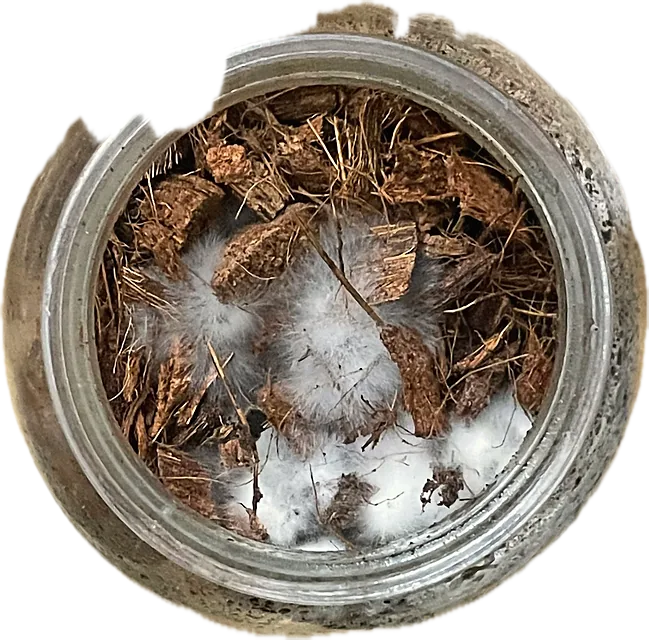
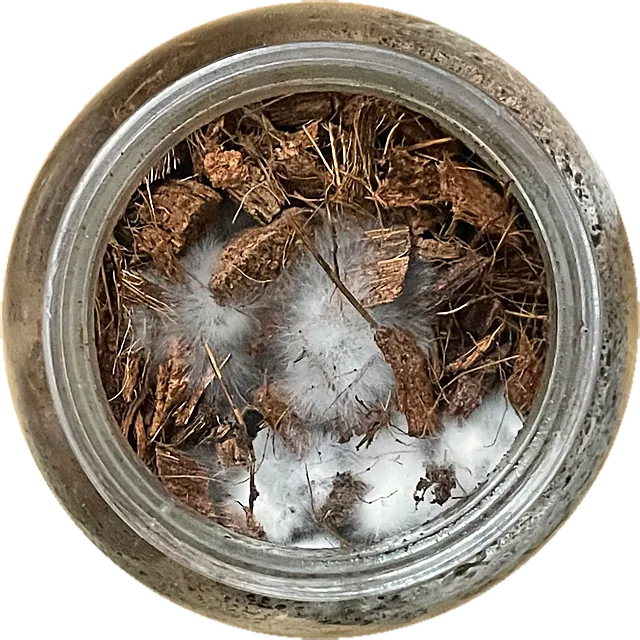
Update site 2026-10-16

diff --git a/index.html b/index.html
@@ -2,7 +2,7 @@
 <html lang="en">
 <head>
 <meta charset="utf-8">
-<meta http-equiv="Content-Security-Policy" content="default-src 'self'; script-src 'self' 'sha256-2aXUAyr4y5HwhHmZkiL9GxlWPjC31j/WITiZgkK8rwM=' 'sha256-Pou2OAmGK2C6S8TLm9mEenH+t3b9fo090o6+uJaSkNo=' 'sha256-GBSNzbRYvDDGp3pbfBfW1qwvGaLkI736pXIuO3c3vkY=' 'sha256-dsYWCukMVaVLfMrtH1cbSwGA2rl3czjfAD47Vtjdwyo='; style-src 'self' 'unsafe-inline'; font-src 'self'; img-src 'self' data: blob:; media-src 'self' blob:; connect-src 'self'; worker-src 'self' blob:; object-src 'none'; base-uri 'self'; form-action 'none'">
+<meta http-equiv="Content-Security-Policy" content="default-src 'self'; script-src 'self' 'sha256-2aXUAyr4y5HwhHmZkiL9GxlWPjC31j/WITiZgkK8rwM=' 'sha256-Pou2OAmGK2C6S8TLm9mEenH+t3b9fo090o6+uJaSkNo=' 'sha256-GBSNzbRYvDDGp3pbfBfW1qwvGaLkI736pXIuO3c3vkY=' 'sha256-fuPn6MnaKSWkeY0mDulqSjsVsZ88mPT40j0yfyXBekg='; style-src 'self' 'unsafe-inline'; font-src 'self'; img-src 'self' data: blob:; media-src 'self' blob:; connect-src 'self'; worker-src 'self' blob:; object-src 'none'; base-uri 'self'; form-action 'none'">
 <meta name="referrer" content="strict-origin-when-cross-origin">
 <meta name="viewport" content="width=device-width, initial-scale=1, viewport-fit=cover">
 <title>Raffaele Errichiello</title>
@@ -1662,7 +1662,7 @@ html:not(.ed-on) [data-ed-off]{display:none!important}
       <ol class="shelf" aria-label="Ten specimens from the first experiments, in date order">
           <li><div class="obj"><img src="assets/img/x/ex-spec01.webp" alt="A grow bag of layered substrate, orange and brown" loading="lazy" decoding="async" width="532" height="640"></div><p class="d">15 Nov 2021, Naples</p><p class="what">Layers of substrate in a grow bag</p></li>
           <li><div class="obj"><img src="assets/img/x/ex-spec02.webp" alt="A grow bag of substrate with straw" loading="lazy" decoding="async" width="353" height="640"></div><p class="d">16 Nov 2021, Naples</p><p class="what">With straw</p></li>
-          <li><div class="obj"><img src="assets/img/x/ex-spec03.webp" alt="A jar of coarse chips seen from above, white mycelium between them" loading="lazy" decoding="async" width="649" height="640"></div><p class="d">9 Dec 2021, Naples</p><p class="what">Coarse chips, the mycelium taking hold</p></li>
+          <li><div class="obj"><img src="assets/img/x/ex-spec03.webp" alt="A jar of coarse chips seen from above, white mycelium between them" loading="lazy" decoding="async" width="640" height="640"></div><p class="d">9 Dec 2021, Naples</p><p class="what">Coarse chips, the mycelium taking hold</p></li>
           <li><div class="obj"><img src="assets/img/x/ex-spec04.webp" alt="A jar of dark substrate with white mycelium on top" loading="lazy" decoding="async" width="566" height="640"></div><p class="d">3 Jan 2022, Naples</p><p class="what">A darker mix in a jar</p></li>
           <li><div class="obj"><img src="assets/img/x/ex-spec05.webp" alt="A grow bag whitened by mycelium" loading="lazy" decoding="async" width="380" height="640"></div><p class="d">19 Jan 2022, Naples</p><p class="what">A bag grown through</p></li>
           <li><div class="obj"><img src="assets/img/x/ex-spec06.webp" alt="A white block of substrate covered in the shaggy cream tufts of lion's mane" loading="lazy" decoding="async" width="633" height="640"></div><p class="d">20 Jan 2022, Il Rivo, Sant'Agata</p><p class="what">Lion's mane, prepared by Il Rivo</p></li>
@@ -4788,7 +4788,7 @@ function t(t,e,i){return Math.max(t,Math.min(e,i))}var e=class{isRunning=!1;valu
   initPosters(); initVideos(); initScrub(); initLightbox(); initCopy(); initPeek();
 })();
 
-(function(){var B='528353abf5d4';function check(){try{fetch('version.txt?t='+Date.now(),{cache:'no-store'}).then(function(r){return r.ok?r.text():null}).then(function(v){v=v&&v.trim();if(!v||v===B)return;var k='reloaded-for';try{if(sessionStorage.getItem(k)===v)return;sessionStorage.setItem(k,v)}catch(e){}location.reload()}).catch(function(){})}catch(e){}}check();addEventListener('pageshow',function(e){if(e.persisted)check()});document.addEventListener('visibilitychange',function(){if(!document.hidden)check()})})();
+(function(){var B='086ade02a678';function check(){try{fetch('version.txt?t='+Date.now(),{cache:'no-store'}).then(function(r){return r.ok?r.text():null}).then(function(v){v=v&&v.trim();if(!v||v===B)return;var k='reloaded-for';try{if(sessionStorage.getItem(k)===v)return;sessionStorage.setItem(k,v)}catch(e){}location.reload()}).catch(function(){})}catch(e){}}check();addEventListener('pageshow',function(e){if(e.persisted)check()});document.addEventListener('visibilitychange',function(){if(!document.hidden)check()})})();
 </script>
 </body>
 </html>
